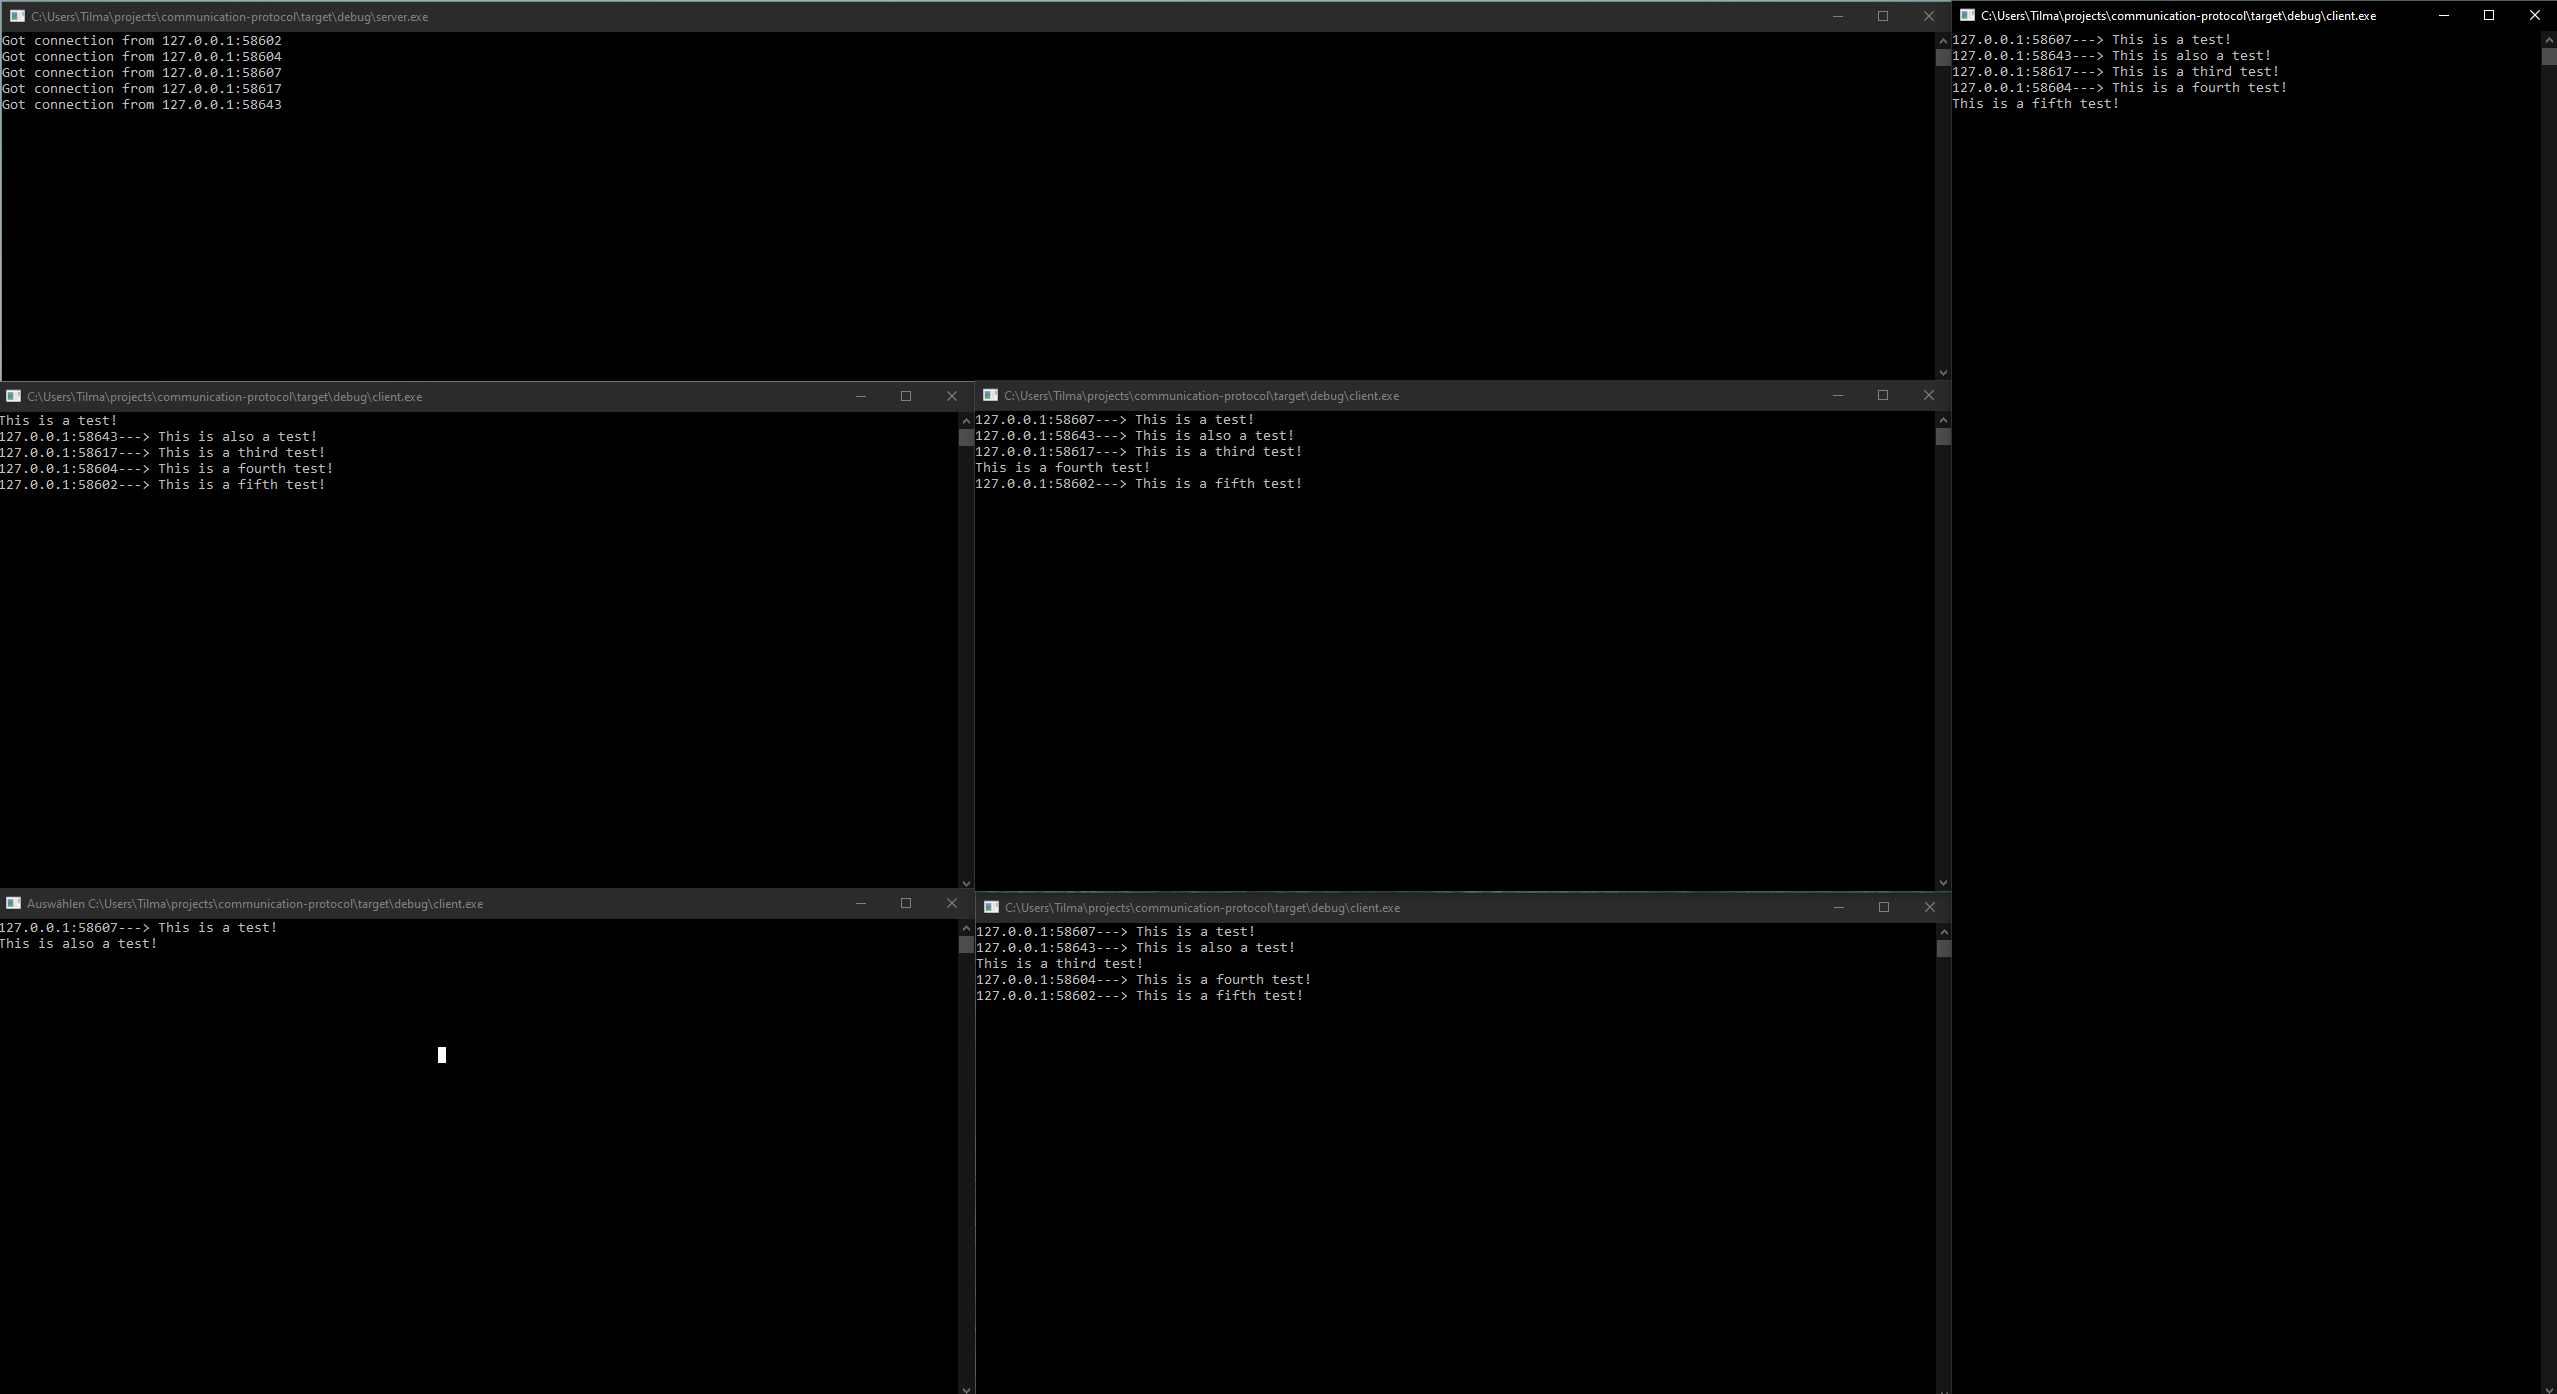
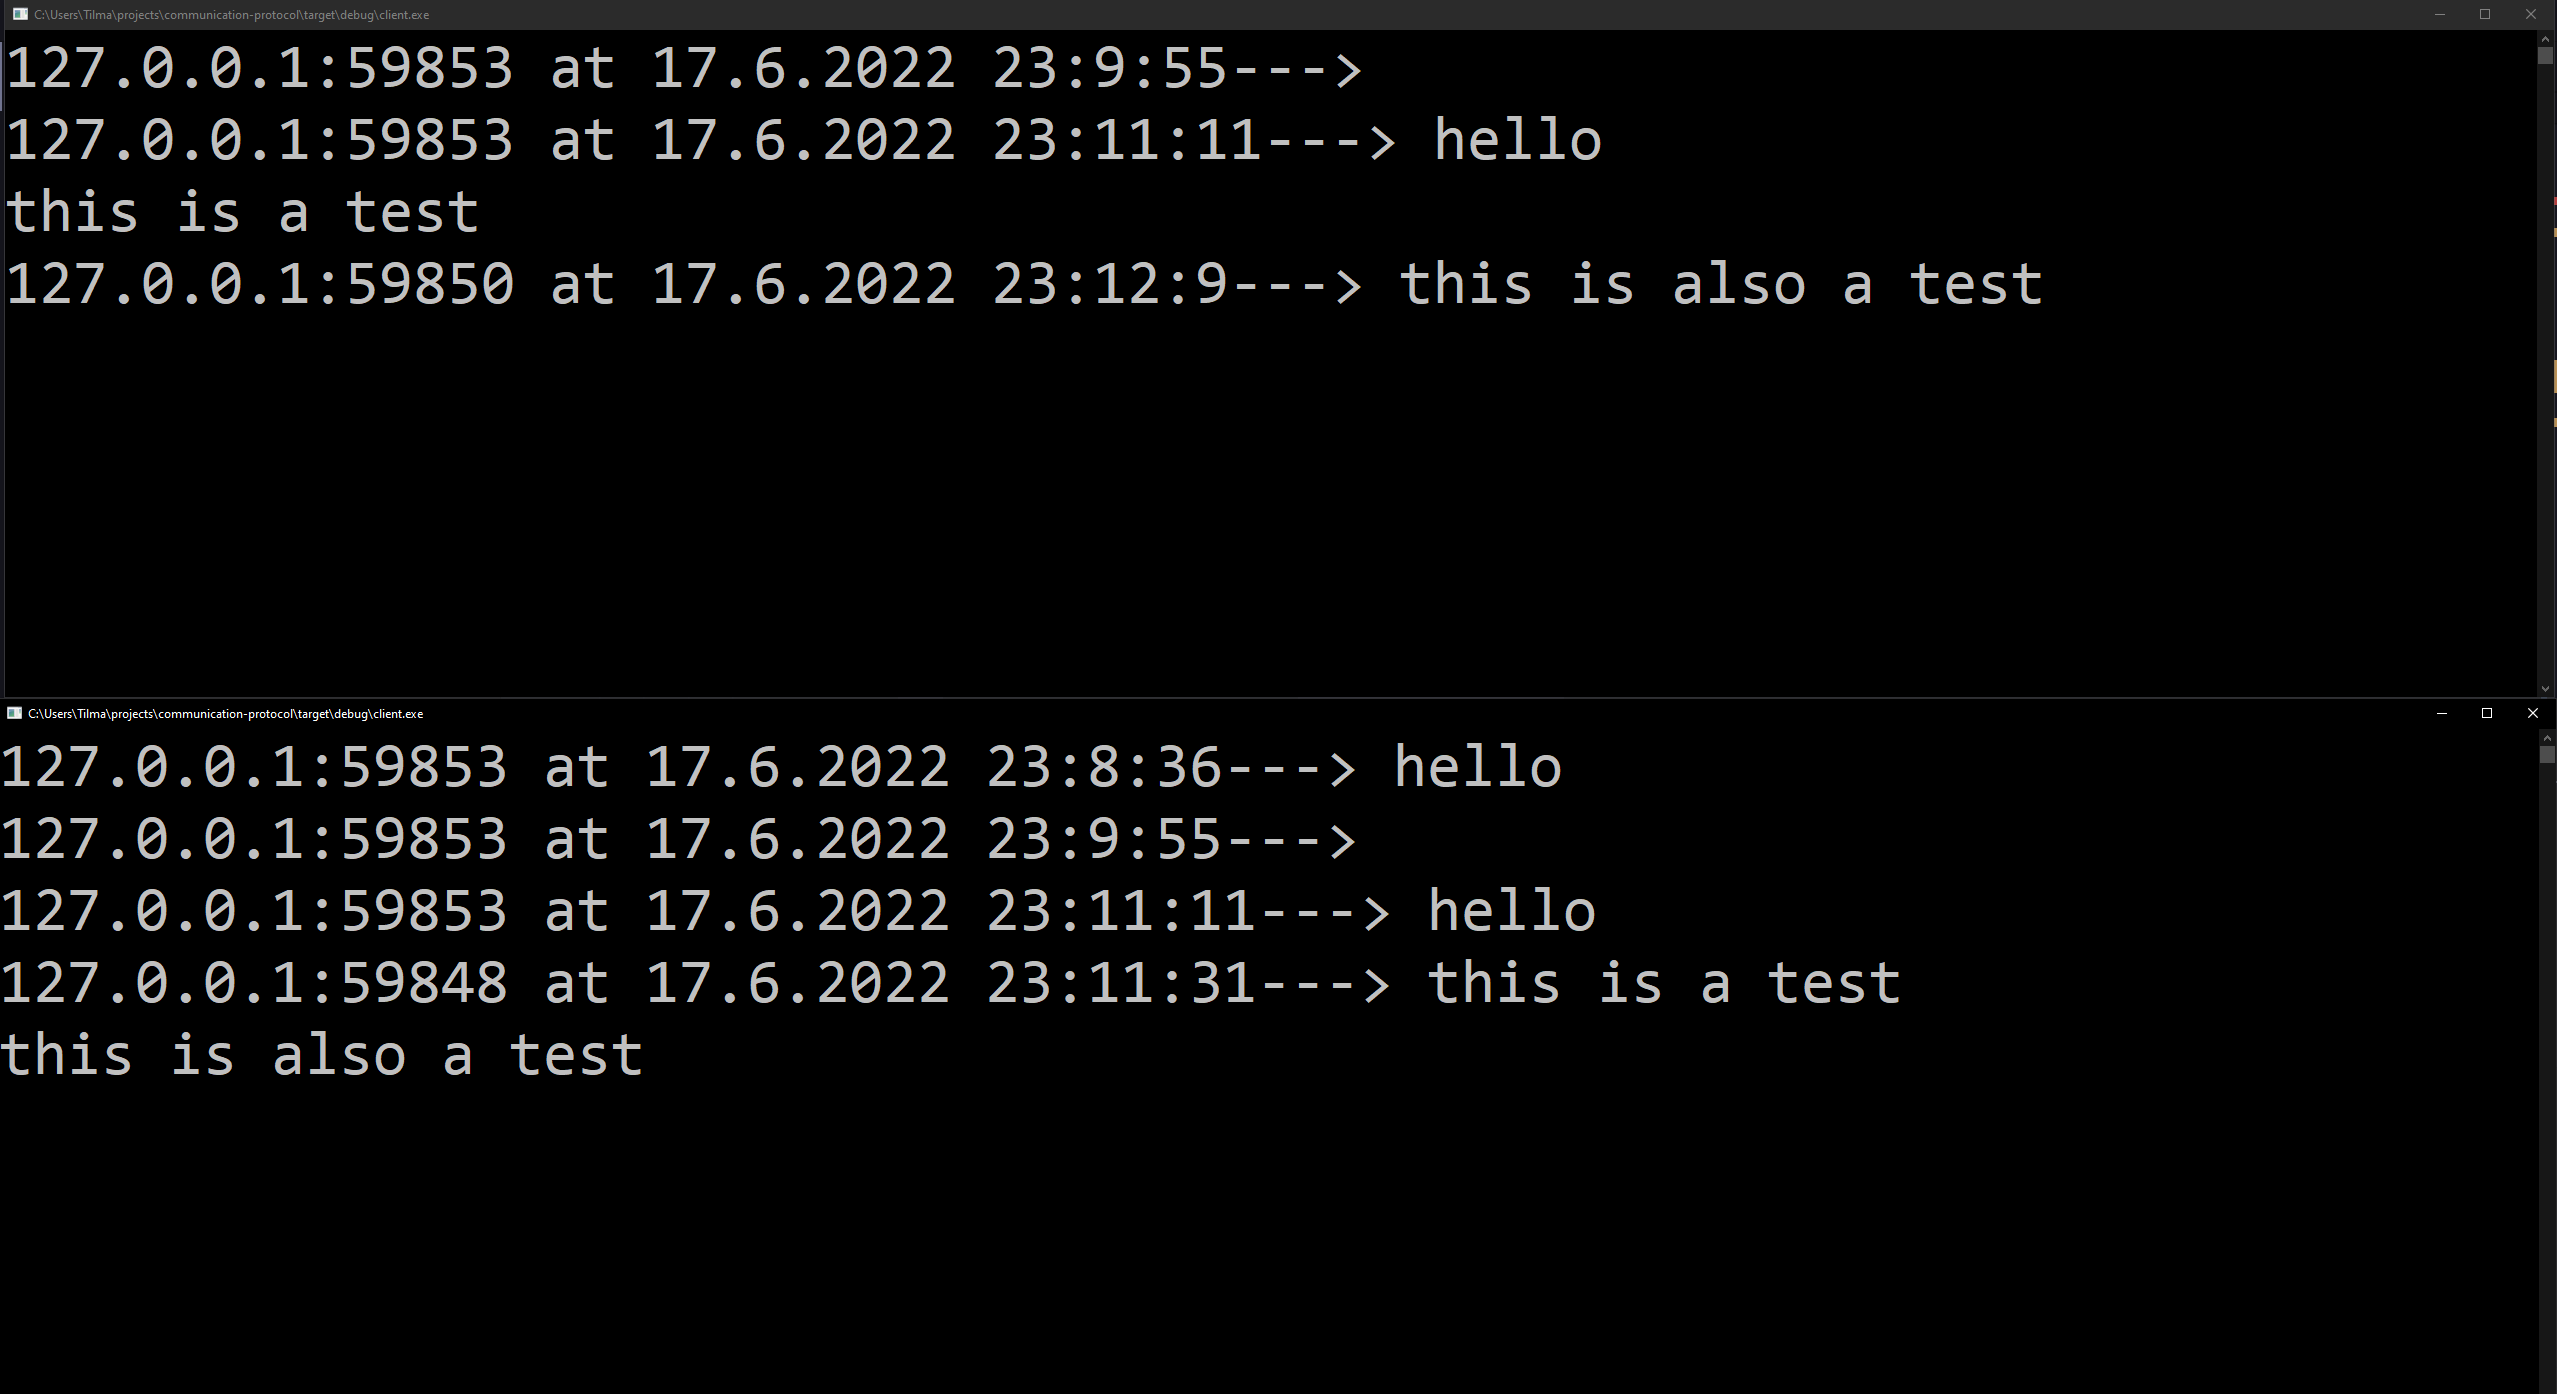
added date-time

diff --git a/src/bin/server/main.rs b/src/bin/server/main.rs
@@ -1,3 +1,4 @@
+use chrono::{Datelike, Local, Timelike};
 use tokio::io::{AsyncReadExt, AsyncWriteExt};
 use tokio::net;
 use tokio::net::tcp::{OwnedReadHalf, OwnedWriteHalf};
@@ -54,7 +55,17 @@ async fn handle_write(mut write: OwnedWriteHalf, mut recv: Receiver<Message>) {
     loop {
         let msg = recv.recv().await.unwrap();
         let ip = msg.ip;
-        let str = String::from(format!("{}---> {}", ip, msg.content));
+        let time = Local::now();
+        let timestr = format!(
+            "{}.{}.{} {}:{}:{}",
+            time.day(),
+            time.month(),
+            time.year(),
+            time.hour(),
+            time.minute(),
+            time.second(),
+        );
+        let str = String::from(format!("{} at {}---> {}", ip, timestr, msg.content));
         let bytes = str.as_bytes();
         if ip != write.peer_addr().unwrap() {
             write
